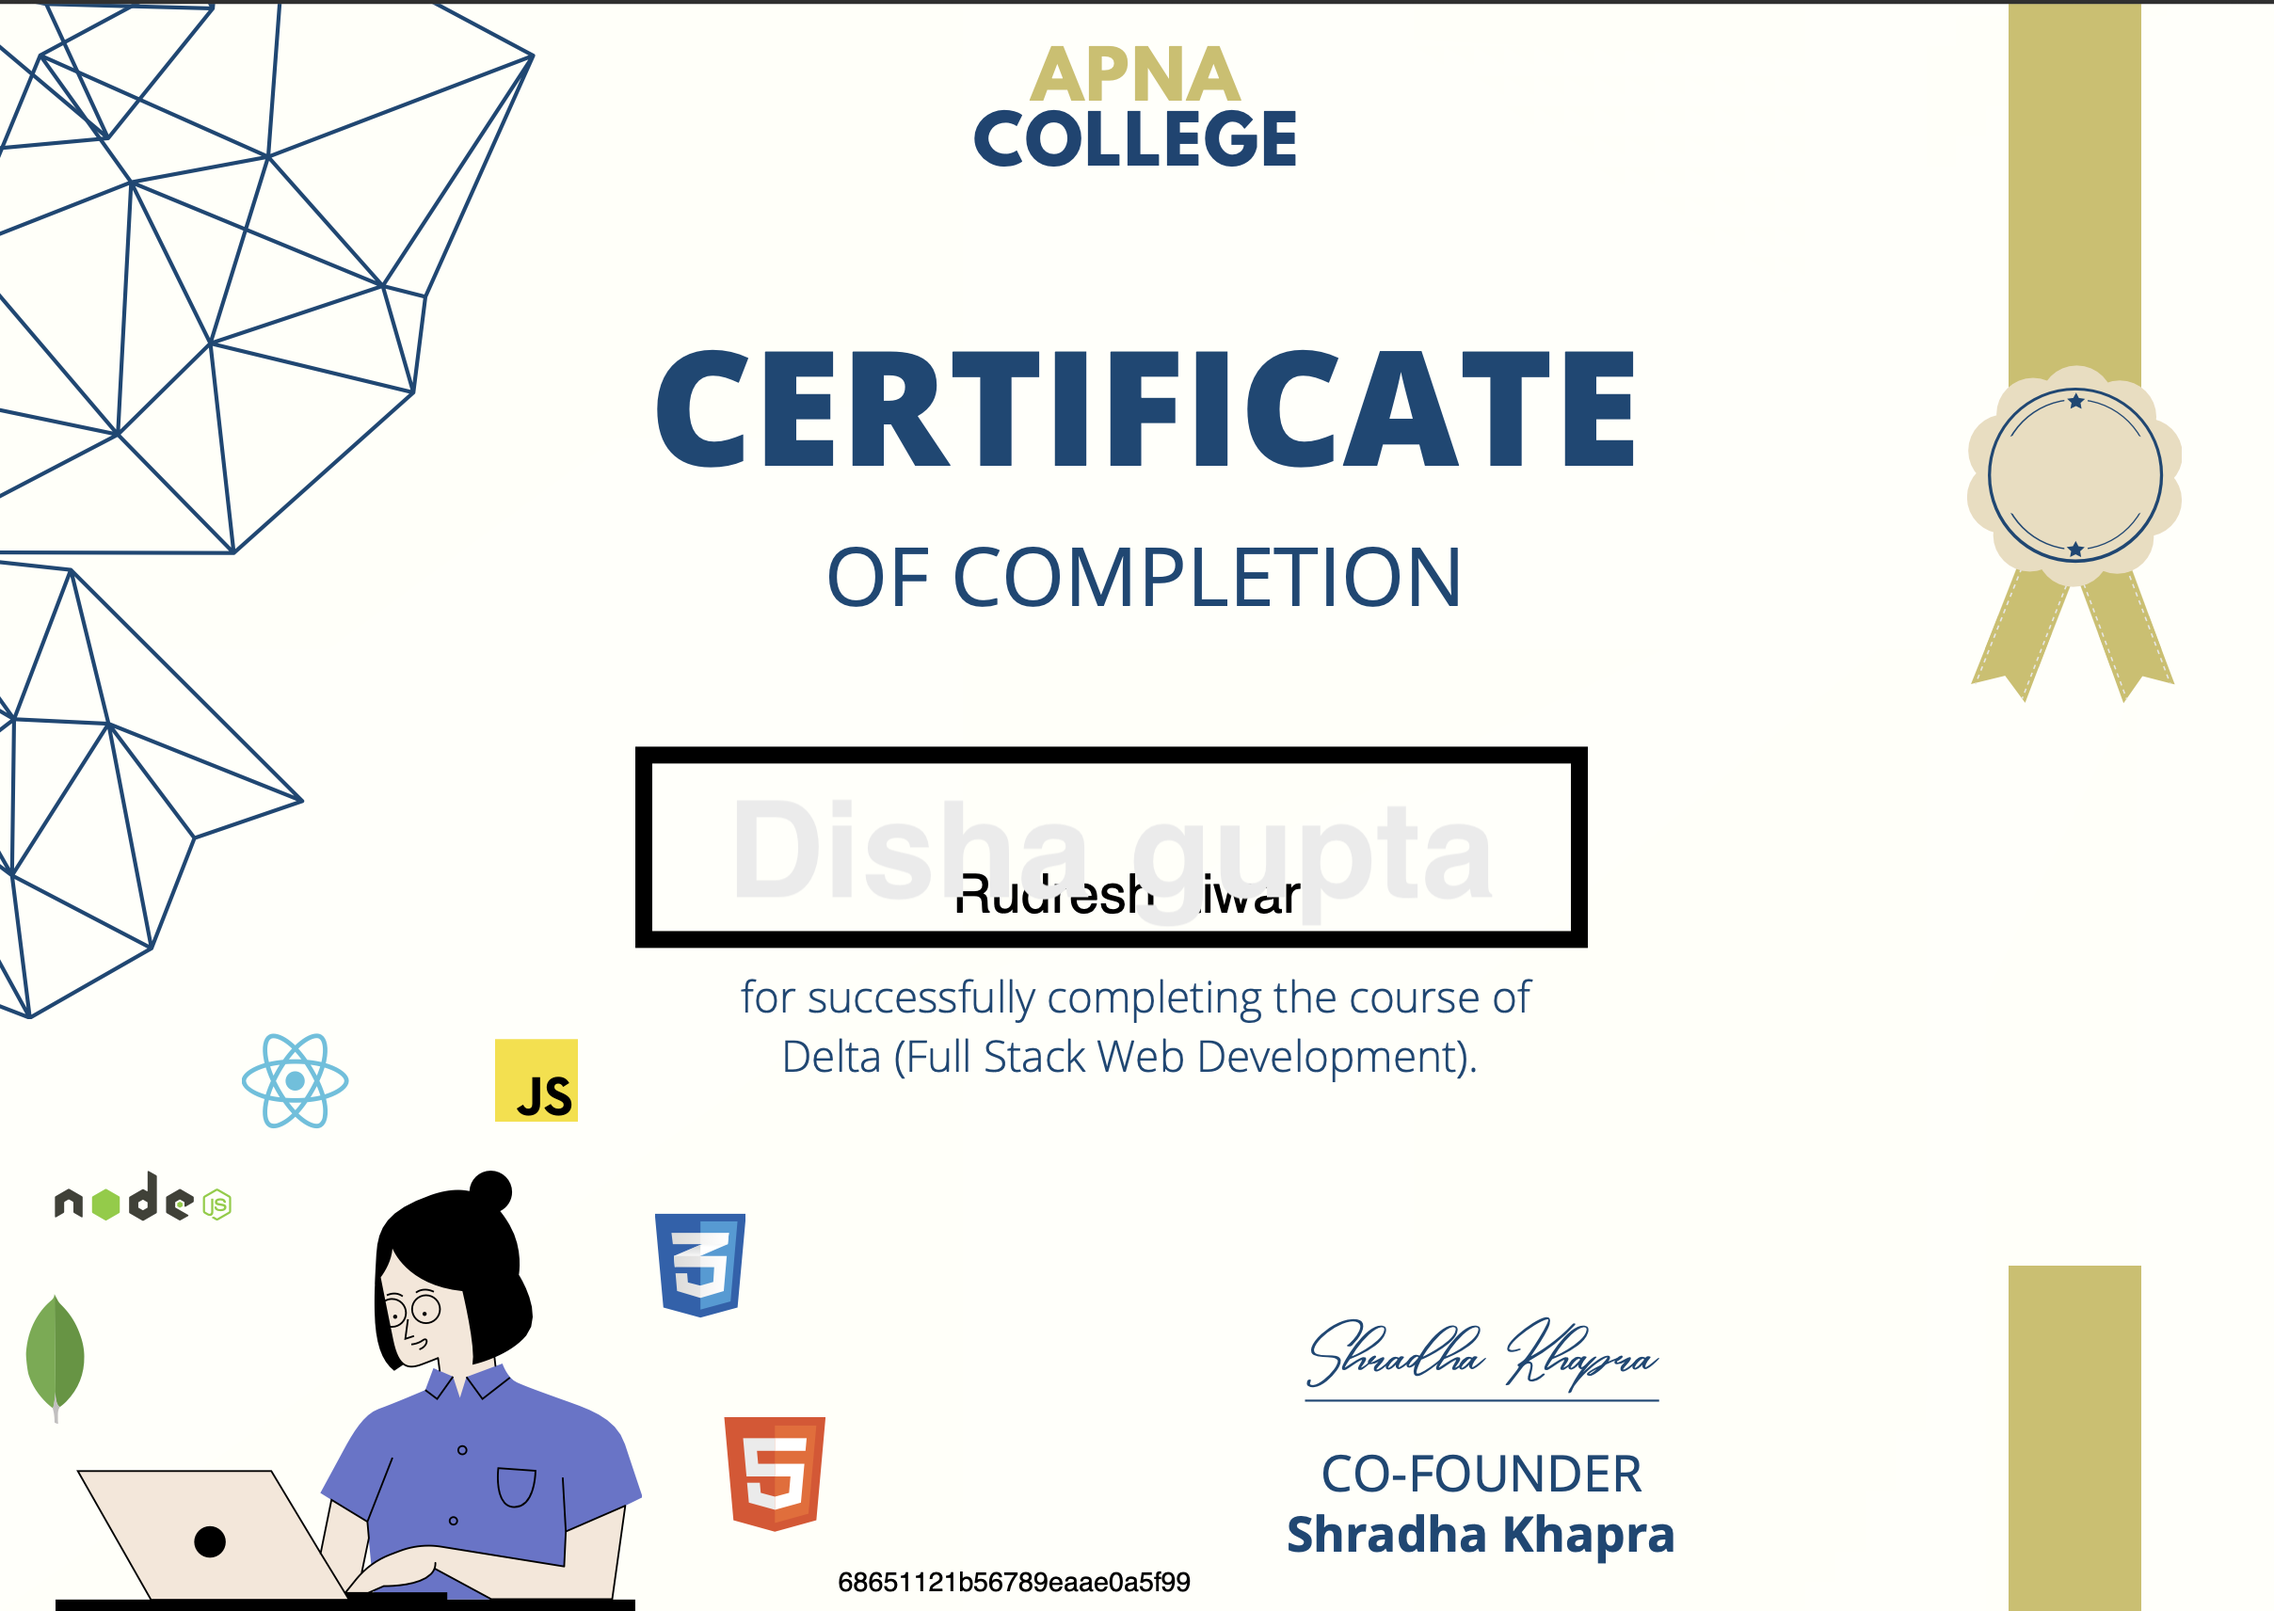
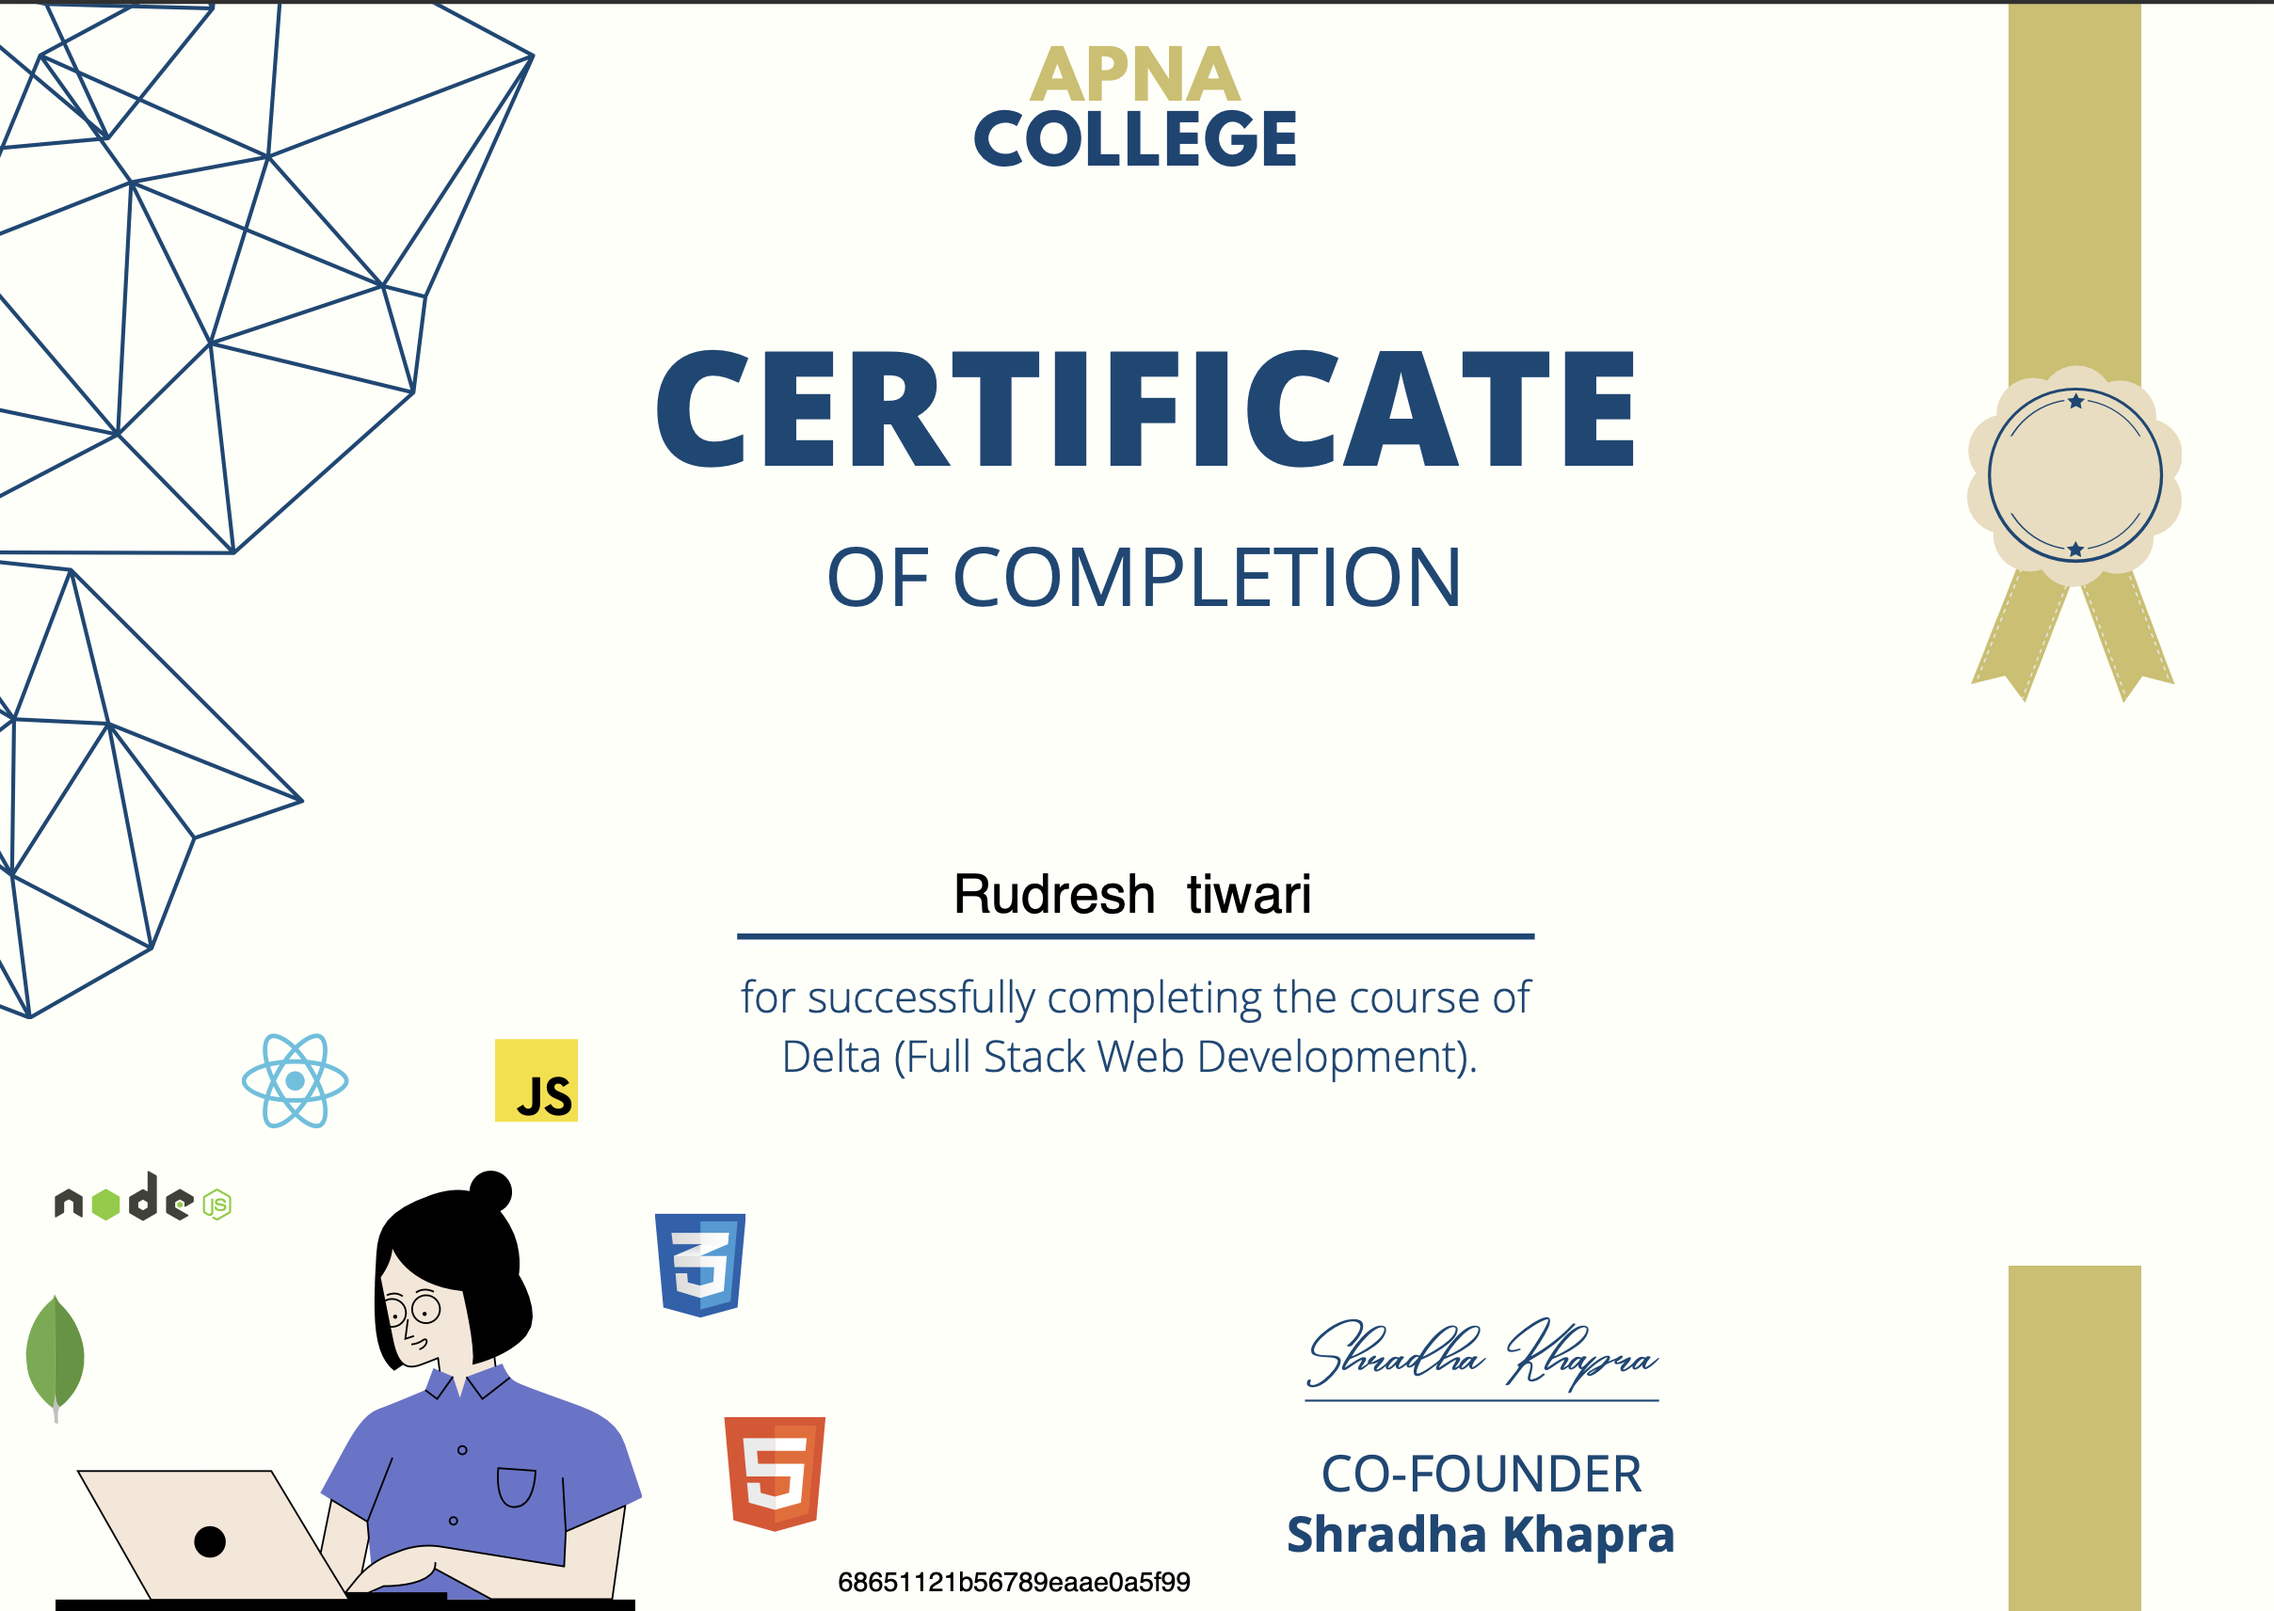
Revert to last working version (Dec 7)
Rolling back to the state before the accidental folder mess
to restore the working portfolio.

Changed region(s): [[0.2794, 0.4644, 0.714, 0.5882]]

diff --git a/src/components/DynamicIslandNav.jsx b/src/components/DynamicIslandNav.jsx
@@ -1,1 +1,101 @@
-n
+import { motion, AnimatePresence } from "framer-motion";
+
+export default function DynamicIslandNav({ isVisible, currentSection }) {
+  const menuItems = [
+    { name: "About", id: "about" },
+    { name: "Academics", id: "academics" },
+    { name: "Projects", id: "projects" },
+    { name: "Certifications", id: "certifications" },
+    { name: "Internships", id: "internships" }
+  ];
+
+  const scrollToSection = (id) => {
+    const element = document.getElementById(id);
+    if (element) {
+      element.scrollIntoView({ behavior: "smooth" });
+    }
+  };
+
+  const scrollToTop = () => {
+    window.scrollTo({ top: 0, behavior: "smooth" });
+  };
+
+  return (
+    <AnimatePresence>
+      {isVisible && (
+        <motion.nav
+          initial={{ y: -100, opacity: 0, scale: 0.9 }}
+          animate={{ y: 0, opacity: 1, scale: 1 }}
+          exit={{ y: -100, opacity: 0, scale: 0.9 }}
+          transition={{
+            type: "spring",
+            stiffness: 260,
+            damping: 20
+          }}
+          style={{ position: 'fixed', top: '1.5rem', left: '50%', transform: 'translateX(-50%)', zIndex: 9999 }}
+        >
+          {/* Glassmorphic Island Container - Larger Size */}
+          <div className="relative backdrop-blur-2xl bg-gradient-to-r from-blue-500/20 via-purple-500/20 to-blue-500/20 border-2 border-white/30 rounded-full shadow-2xl shadow-blue-500/30 px-8 py-4">
+            {/* Liquid Effect Overlay */}
+            <div className="absolute inset-0 rounded-full bg-gradient-to-r from-transparent via-white/10 to-transparent animate-pulse" />
+
+            {/* Glow Effect Behind */}
+            <div className="absolute -inset-2 bg-gradient-to-r from-blue-500/30 via-purple-500/30 to-blue-500/30 rounded-full blur-2xl -z-10 opacity-60" />
+
+            {/* Navigation Items */}
+            <div className="relative flex items-center gap-2">
+              {/* Logo/Name Button */}
+              <motion.button
+                onClick={scrollToTop}
+                whileHover={{ scale: 1.08 }}
+                whileTap={{ scale: 0.95 }}
+                className="px-5 py-2.5 text-base font-bold bg-gradient-to-r from-blue-500/30 to-purple-500/30 text-white rounded-full hover:from-blue-500/40 hover:to-purple-500/40 transition-all duration-300 shadow-lg"
+              >
+                RT
+              </motion.button>
+
+              {/* Divider */}
+              <div className="w-px h-8 bg-white/30" />
+
+              {/* Menu Items */}
+              <div className="flex items-center gap-1">
+                {menuItems.map((item) => (
+                  <motion.button
+                    key={item.id}
+                    onClick={() => scrollToSection(item.id)}
+                    whileHover={{ scale: 1.05 }}
+                    whileTap={{ scale: 0.95 }}
+                    className={`
+                      relative px-5 py-2.5 text-base font-medium rounded-full
+                      transition-all duration-300
+                      ${
+                        currentSection === item.id
+                          ? "text-white"
+                          : "text-gray-300 hover:text-white"
+                      }
+                    `}
+                  >
+                    {/* Active Indicator */}
+                    {currentSection === item.id && (
+                      <motion.div
+                        layoutId="activeSection"
+                        className="absolute inset-0 bg-gradient-to-r from-blue-500/40 to-purple-500/40 rounded-full shadow-lg"
+                        transition={{
+                          type: "spring",
+                          stiffness: 380,
+                          damping: 30
+                        }}
+                      />
+                    )}
+
+                    <span className="relative z-10">{item.name}</span>
+                  </motion.button>
+                ))}
+              </div>
+            </div>
+          </div>
+        </motion.nav>
+      )}
+    </AnimatePresence>
+  );
+}

diff --git a/src/components/Projects.jsx b/src/components/Projects.jsx
@@ -68,23 +68,6 @@ export default function Projects() {
         github: "#"
       }
     },
-    {
-      title: "Executive portfolio website",
-      description: "📌 Executive Portfolio — Dynamic Admin-Managed Personal Brand PlatformA full-stack MERN-based executive portfolio platform designed for professionals, founders, and team leaders who need more than a static portfolio website.Unlike traditional portfolios where information is hard-coded, this platform provides a dedicated admin panel to manage all content dynamically — turning the website into a self-operated personal brand system.The current implementation is modeled as a sample portfolio for Nikhil Kamath to demonstrate a real-world executive use case. However, the system is fully reusable and can be configured for any individual or organization without modifying the codebase.",
-      images: ["ep1.png", "ep2.png", "ep3.png", "ep4.png", "ep5.png", "ep6.png","ep7.png","ep8.png","ep9.png","ep10.png","ep11.png","ep12.png","ep13.png","ep14.png","ep15.png"],
-      technologies: ["React.js", "Node.js", "express.js", "mongodb"],
-      features: [
-        "🔐 Dynamic Admin Control",
-        "🤖 AI Personal Assistant",
-        "💬 Visitor Messaging System",
-        "📝 Integrated Blogging Platform",
-        "🎨 Professional UI/UX"
-      ],
-      links: {
-        live: "#",
-        github: "#"
-      }
-    },
     
     {
       title: "Explore Indian Islands",
@@ -102,14 +85,14 @@ export default function Projects() {
       }
     },
     {
-      title: "Accounting and Auditing ERP portal",
-      description: "Developed a full-stack ERP system with React and Flask, featuring multi-role login, invoice/document upload, and real-time data extraction from Excel/PDF files with modular backend APIs, enabling secure authentication, data visualization, and automated record processing.me optimization tool that calculates ATS scores, provides improvement suggestions, and analyzes skill match against job descriptions.",
+      title: "SkillMatch Resume Analyzer",
+      description: "Resume optimization tool that calculates ATS scores, provides improvement suggestions, and analyzes skill match against job descriptions.",
       images: ["Upload Interface", "ATS Score View", "Suggestions Panel", "Skills Analysis"],
       technologies: ["Python", "NLP", "Streamlit", "Machine Learning"],
       features: [
-        "INVOICE UPLOAD",
-        "Excel sheet upload ",
-        "Database Operations"
+        "ATS score calculation",
+        "Keyword optimization suggestions",
+        "Skill gap analysis"
       ],
       links: {
         live: "#",
